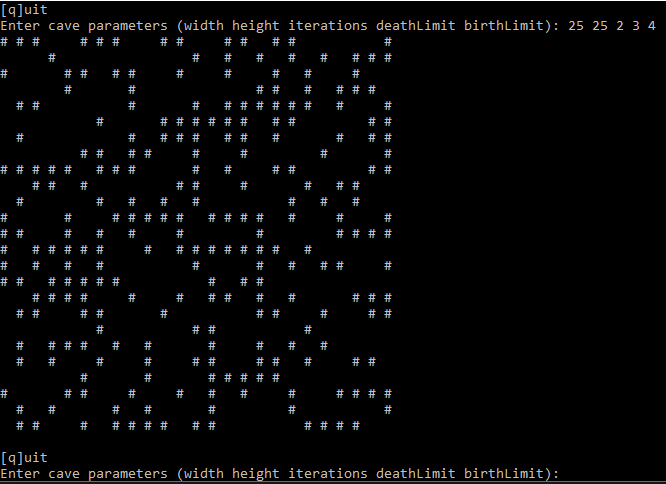
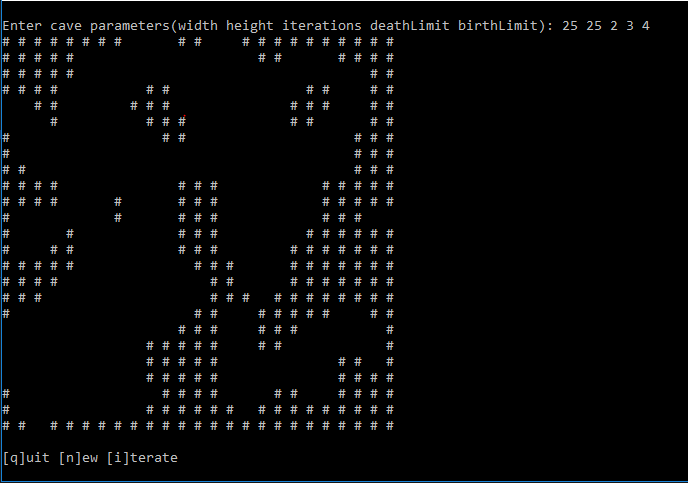
Fixed issue with inverted cell mapping

diff --git a/Automata_Cave_Generator/Main.cpp b/Automata_Cave_Generator/Main.cpp
@@ -6,17 +6,40 @@
 int main()
 {
 	int death, birth, it, width, height;
-	int* map;
+	int* map = nullptr;
 	std::stringstream ss;
+	CaveGen gen;
 	std::string in = "";
-	while (in != "q")
+	char c = ' ';
+	while (c != 'q')
 	{
-		std::cout << "[q]uit\nEnter cave parameters (width height iterations deathLimit birthLimit): ";
-		std::getline(std::cin, in);
-		ss << in;
-		ss >> width >> height >> it >> death >> birth;
-		map = new int[width * height];
-		CaveGen gen = CaveGen(map, width, height, death, birth, it);
+		std::cout << "[q]uit [n]ew [i]terate\n";
+		std::cin >> c;
+		std::cin.ignore(1000, '\n');
+		switch (c)
+		{
+		case 'q':
+			continue;
+		case 'i':
+			if (map == nullptr)
+			{
+				std::cout << "\nNo current map\n";
+				continue;
+			}
+			gen.iterate();
+			gen.print();
+			break;
+		case 'n':
+			std::cout << "\nEnter cave parameters(width height iterations deathLimit birthLimit): ";
+			std::getline(std::cin, in);
+			ss << in;
+			ss >> width >> height >> it >> death >> birth;
+			map = new int[width * height];	
+			gen = CaveGen(map, width, height, death, birth, it);
+			break;
+		default:
+			continue;
+		}
 		std::cout << "\n";
 	}
 	return 0;

diff --git a/Automata_Cave_Generator/CaveGen.h b/Automata_Cave_Generator/CaveGen.h
@@ -25,6 +25,10 @@ public:
 			iterate();
 		print();
 	}
+	CaveGen()
+	{
+
+	}
 	void print() {
 		for (int r = 0; r < height; r++)
 		{
@@ -34,17 +38,6 @@ public:
 			}
 			std::cout << "\n";
 		}
-	}
-private:
-	int* map;
-	int* newMap;
-	int width, height, dLimit, bLimit;
-	int random() // return a value 1-100
-	{
-		std::random_device rd;
-		std::mt19937 gen(rd());
-		std::uniform_int_distribution<> dist(0, 99);
-		return dist(gen) + 1;
 	}
 	void iterate() {
 		const int size = width * height;
@@ -63,13 +56,24 @@ private:
 				else
 				{
 					if (nCount > bLimit)
-						newMap[r*width + c] = 0;
-					else
 						newMap[r*width + c] = 1;
+					else
+						newMap[r*width + c] = 0;
 				}
 			}
 		}
-		std::memcpy(newMap, map, size * sizeof(int));
+		std::memcpy(map, newMap, size * sizeof(int));
+	}
+private:
+	int* map;
+	int* newMap;
+	int width, height, dLimit, bLimit;
+	int random() // return a value 1-100
+	{
+		std::random_device rd;
+		std::mt19937 gen(rd());
+		std::uniform_int_distribution<> dist(0, 99);
+		return dist(gen) + 1;
 	}
 	int getAliveNeighbors(int x, int y)
 	{
